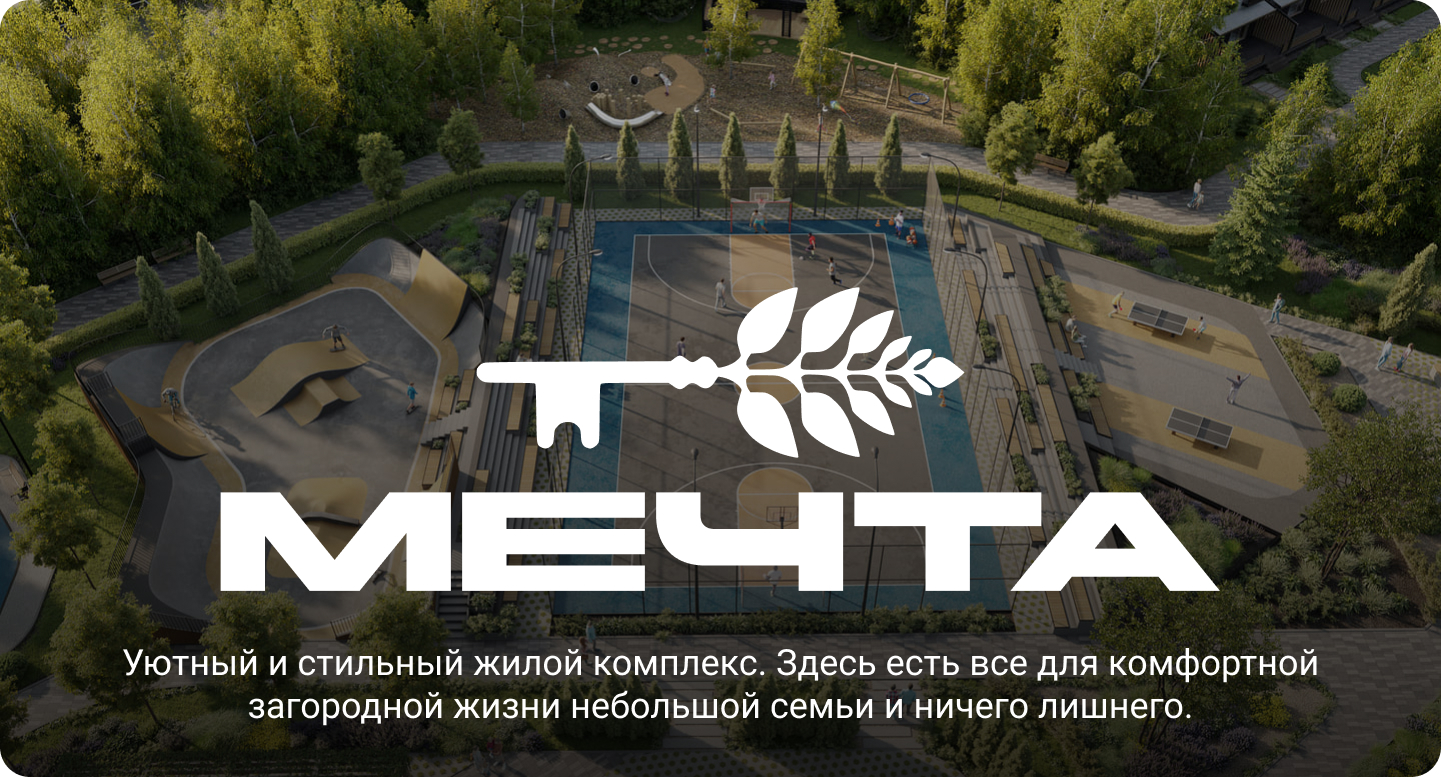
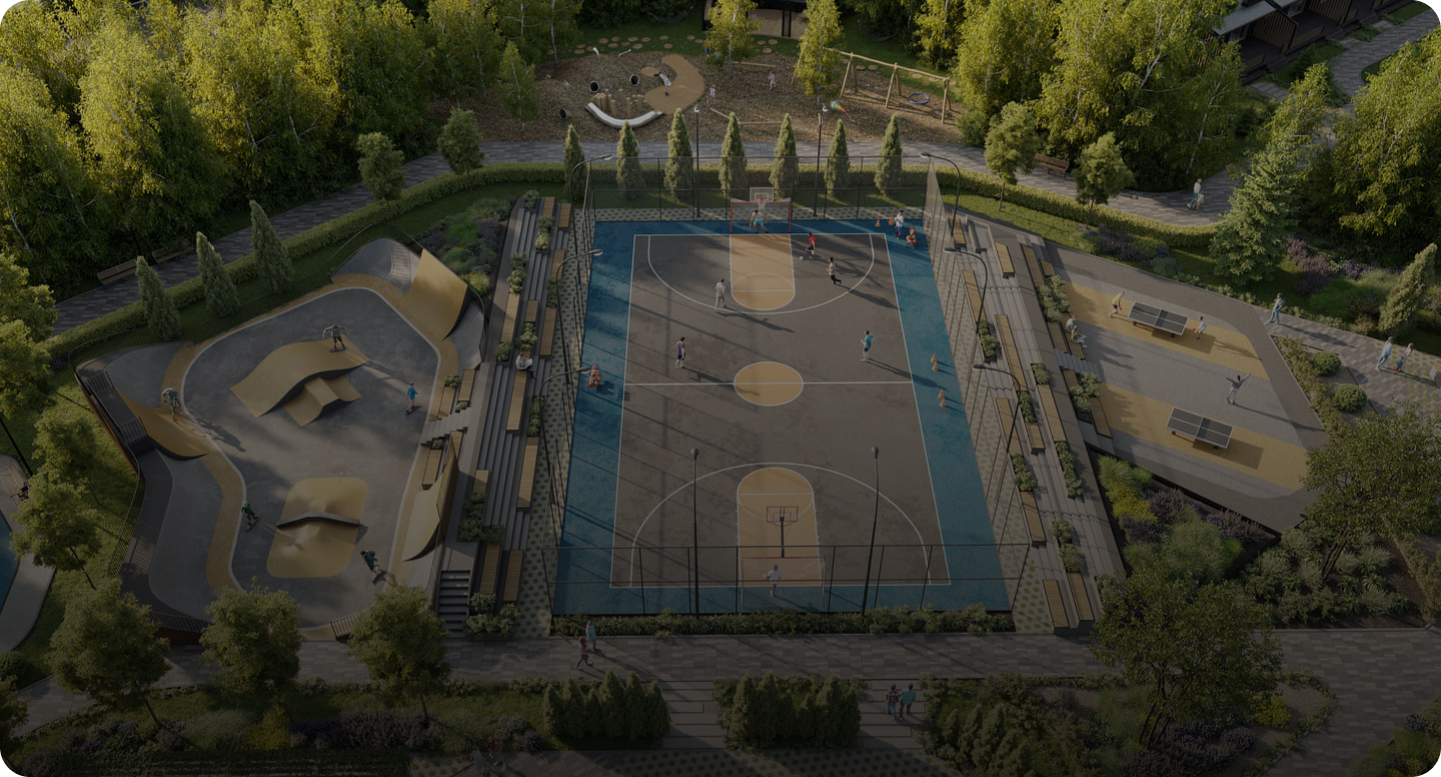
feat: добавить блок gallery

Changed region(s): [[0.1249, 0.6178, 0.8432, 0.7722], [0.0937, 0.834, 0.9368, 0.9266], [0.3123, 0.3707, 0.687, 0.5869]]

diff --git a/src/index.html b/src/index.html
@@ -3,11 +3,11 @@
   @@include('html/head.html', { 'title': 'Жилой комплекс «Мечта» | Купить квартиру в новостройке в Новосибирске' })
   <body>
     @@include('html/ExHeader.html', {})
+    @@include('html/ExNavigation.html', {}) 
+    @@include('html/ExSlider.html', {}) 
     <!-- @@include('html/ExCookie.html', {}) -->
 
     <main class="main">
-      @@include('html/ExNavigation.html', {}) 
-      @@include('html/ExSlider.html', {}) 
       @@include('html/ExLayout.html', {}) 
       @@include('html/ExExamples.html', {})  
       @@include('html/ExAdvantages.html', {}) 

diff --git a/src/scss/components/ExGallery.scss b/src/scss/components/ExGallery.scss
@@ -1,0 +1,20 @@
+.gallery {
+  font-family: "TTNorms", Arial, Helvetica, sans-serif;
+  margin-top: 100px;
+  padding: 286px 70px 50px;
+  display: flex;
+  flex-direction: column;
+  align-items: center;
+  gap: 50px;
+  background-image: url("@images/gallery/background.webp");
+  background-repeat: no-repeat;
+  border-radius: 30px;
+
+  &__text {
+    font-weight: 400;
+    text-align: center;
+    font-size: 36px;
+    line-height: 43px;
+    color: #ffffff;
+  }
+}

diff --git a/src/html/ExGallery.html b/src/html/ExGallery.html
@@ -1,3 +1,7 @@
 <section class="gallery">
-    
+    <img class="logo logo_place_gallery" src="@images/header/logo.svg" alt="Мечта" />
+    <p class="gallery__text">
+      Качество жизни – это выбирать лучшее, жить в лоне природы и наслаждаться
+      эстетикой каждой детали!
+    </p>
 </section>

diff --git a/src/scss/components/ExSlider.scss b/src/scss/components/ExSlider.scss
@@ -1,6 +1,8 @@
 .slider {
   font-family: "TTNorms", Arial, Helvetica, sans-serif;
-  margin-top: 33px;
+  margin: 33px 102px 0;
+  // padding: 0 102px;
+  overflow: hidden;
 
   &__container {
     position: relative;

diff --git a/src/scss/components/ExLayout.scss b/src/scss/components/ExLayout.scss
@@ -38,6 +38,7 @@
     align-items: center;
     background-color: #f4f4fc;
     border-radius: 30px;
+    overflow: hidden;
 
     &_place_last-card {
       padding: 20px;

diff --git a/src/scss/components/ExLogo.scss b/src/scss/components/ExLogo.scss
@@ -3,4 +3,8 @@
   &_place_header {
     max-height: 178px;
   }
+  &_place_gallery {
+    max-width: 1012px;
+    width: 100%;
+  }
 }

diff --git a/src/scss/style.scss b/src/scss/style.scss
@@ -42,7 +42,7 @@
 // @import "./node_modules/swiper/swiper-bundle";
 
 main {
-  padding: 0 102px;
+  padding: 0 240px;
 }
 
 body {
